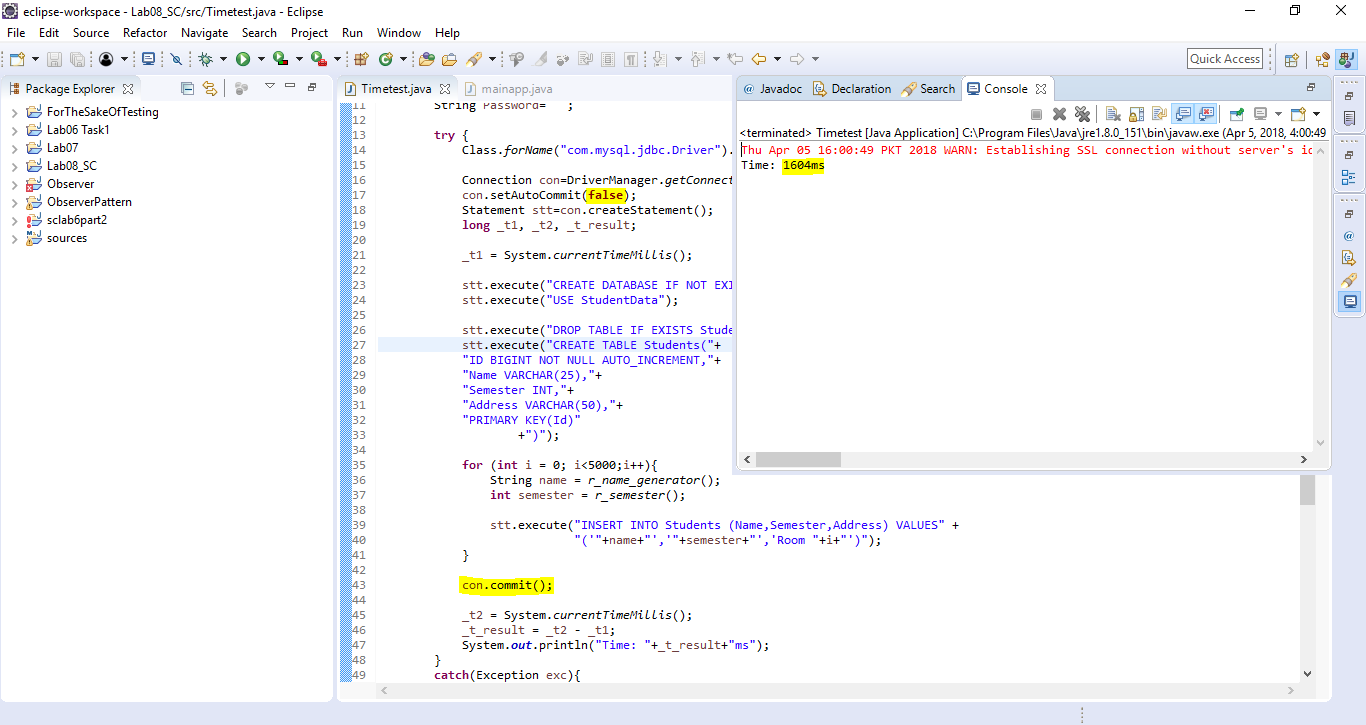
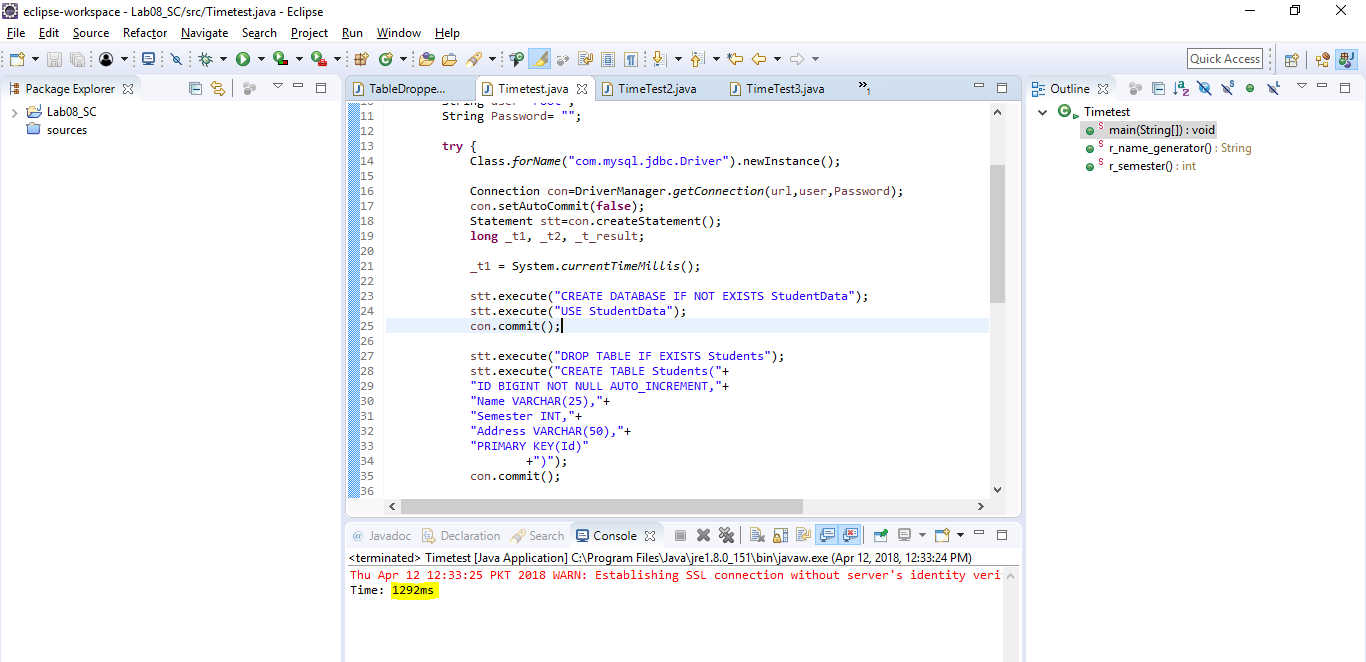
So I corrected a few errors that I learnt that I made with my initial conclusions and how I got there, the documentation will explain properly now

Changed region(s): [[0.0, 0.0, 1.0, 1.0]]

diff --git a/Lab08_SC/src/TimeTest4.java b/Lab08_SC/src/TimeTest4.java
@@ -14,7 +14,7 @@ public class TimeTest4{
 			Class.forName("com.mysql.jdbc.Driver").newInstance();
 			
 			Connection con = DriverManager.getConnection(url,user,Password);
-			con.setAutoCommit(true);
+			con.setAutoCommit(false);
 			PreparedStatement stt= null;
 			String query, insertQuery;
 			long _t1, _t2, _t_result;
@@ -29,9 +29,14 @@ public class TimeTest4{
 			stt = con.prepareStatement(query);
 			stt.execute();
 			
+			con.commit();
+			
+			
 			query = "DROP TABLE IF EXISTS Students";
 			stt = con.prepareStatement(query);
 			stt.execute();
+			
+			con.commit();
 			
 			query = "CREATE TABLE Students("+
 					"ID BIGINT NOT NULL AUTO_INCREMENT,"+
@@ -41,7 +46,10 @@ public class TimeTest4{
 					"PRIMARY KEY(Id)"
 							+")";
 			stt = con.prepareStatement(query);
-			stt.execute();			
+			stt.execute();
+			
+			con.commit();
+			
 			
 			insertQuery = "INSERT INTO Students"+"(Name,Semester,Address) VALUES" +
 					"(?,?,?)";
@@ -59,6 +67,7 @@ public class TimeTest4{
 			}
 			
 			stt.executeBatch();
+			con.commit();
 			
 			_t2 = System.currentTimeMillis();	
 			_t_result = _t2 - _t1;

diff --git a/Lab08_SC/src/TimeTest3.java b/Lab08_SC/src/TimeTest3.java
@@ -14,7 +14,7 @@ public class TimeTest3 {
 			Class.forName("com.mysql.jdbc.Driver").newInstance();
 			
 			Connection con=DriverManager.getConnection(url,user,Password);
-			con.setAutoCommit(true);
+			con.setAutoCommit(false);
 			Statement stt=con.createStatement();
 			long _t1, _t2, _t_result;
 			
@@ -22,6 +22,8 @@ public class TimeTest3 {
 			
 			stt.addBatch("CREATE DATABASE IF NOT EXISTS StudentData");
 			stt.addBatch("USE StudentData");
+			
+			con.commit();
 			
 			stt.addBatch("DROP TABLE IF EXISTS Students");
 			stt.addBatch("CREATE TABLE Students("+
@@ -32,6 +34,8 @@ public class TimeTest3 {
 			"PRIMARY KEY(Id)"
 					+")");
 			
+			con.commit();
+			
 			for (int i = 0; i<5000;i++){
 				String name = r_name_generator();
 				int semester = r_semester();
@@ -40,7 +44,8 @@ public class TimeTest3 {
 							"('"+name+"','"+semester+"','Room "+i+"')");
 			}
 			
-			stt.executeBatch();
+			stt.executeBatch();	
+			con.commit();
 			
 			_t2 = System.currentTimeMillis();	
 			_t_result = _t2 - _t1;

diff --git a/Lab08_SC/src/Timetest.java b/Lab08_SC/src/Timetest.java
@@ -14,7 +14,7 @@ public class Timetest {
 			Class.forName("com.mysql.jdbc.Driver").newInstance();
 			
 			Connection con=DriverManager.getConnection(url,user,Password);
-			con.setAutoCommit(true);
+			con.setAutoCommit(false);
 			Statement stt=con.createStatement();
 			long _t1, _t2, _t_result;
 			
@@ -22,6 +22,7 @@ public class Timetest {
 			
 			stt.execute("CREATE DATABASE IF NOT EXISTS StudentData");
 			stt.execute("USE StudentData");
+			con.commit();
 			
 			stt.execute("DROP TABLE IF EXISTS Students");
 			stt.execute("CREATE TABLE Students("+
@@ -31,6 +32,7 @@ public class Timetest {
 			"Address VARCHAR(50),"+
 			"PRIMARY KEY(Id)"
 					+")");
+			con.commit();
 			
 			for (int i = 0; i<5000;i++){
 				String name = r_name_generator();
@@ -39,6 +41,7 @@ public class Timetest {
 				stt.execute("INSERT INTO Students (Name,Semester,Address) VALUES" +
 							"('"+name+"','"+semester+"','Room "+i+"')");
 			}
+			con.commit();
 			
 			_t2 = System.currentTimeMillis();	
 			_t_result = _t2 - _t1;

diff --git a/Lab08_SC/src/TimeTest2.java b/Lab08_SC/src/TimeTest2.java
@@ -14,7 +14,7 @@ public class TimeTest2{
 			Class.forName("com.mysql.jdbc.Driver").newInstance();
 			
 			Connection con = DriverManager.getConnection(url,user,Password);
-			con.setAutoCommit(true);
+			con.setAutoCommit(false);
 			PreparedStatement stt= null;
 			String query, insertQuery;
 			long _t1, _t2, _t_result;
@@ -32,9 +32,13 @@ public class TimeTest2{
 			stt = con.prepareStatement(query);
 			stt.execute();
 			
+			con.commit();
+			
 			query = "DROP TABLE IF EXISTS Students";
 			stt = con.prepareStatement(query);
 			stt.execute();
+			
+			con.commit();
 			
 			query = "CREATE TABLE Students("+
 					"ID BIGINT NOT NULL AUTO_INCREMENT,"+
@@ -44,7 +48,9 @@ public class TimeTest2{
 					"PRIMARY KEY(Id)"
 							+")";
 			stt = con.prepareStatement(query);
-			stt.execute();			
+			stt.execute();
+			
+			con.commit();
 
 			for (int i = 0; i<5000;i++){
 				String name = r_name_generator();
